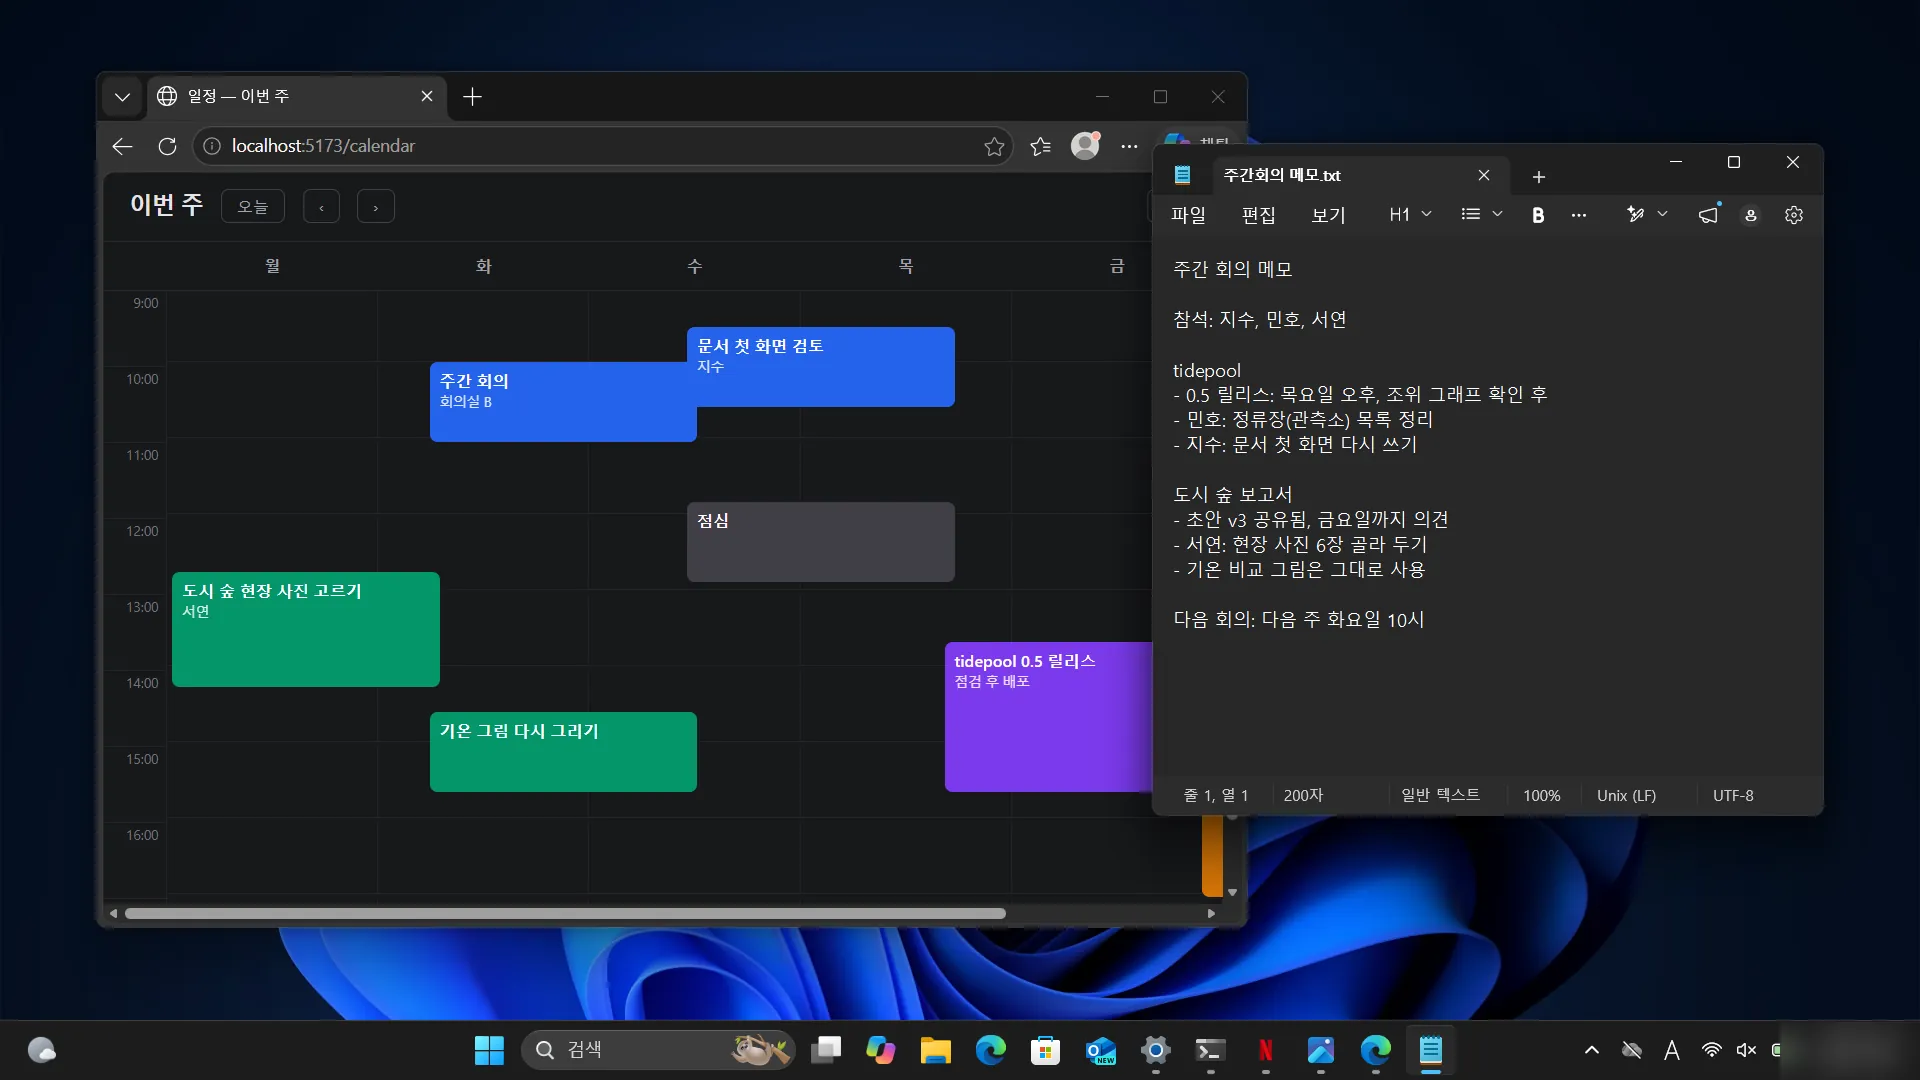
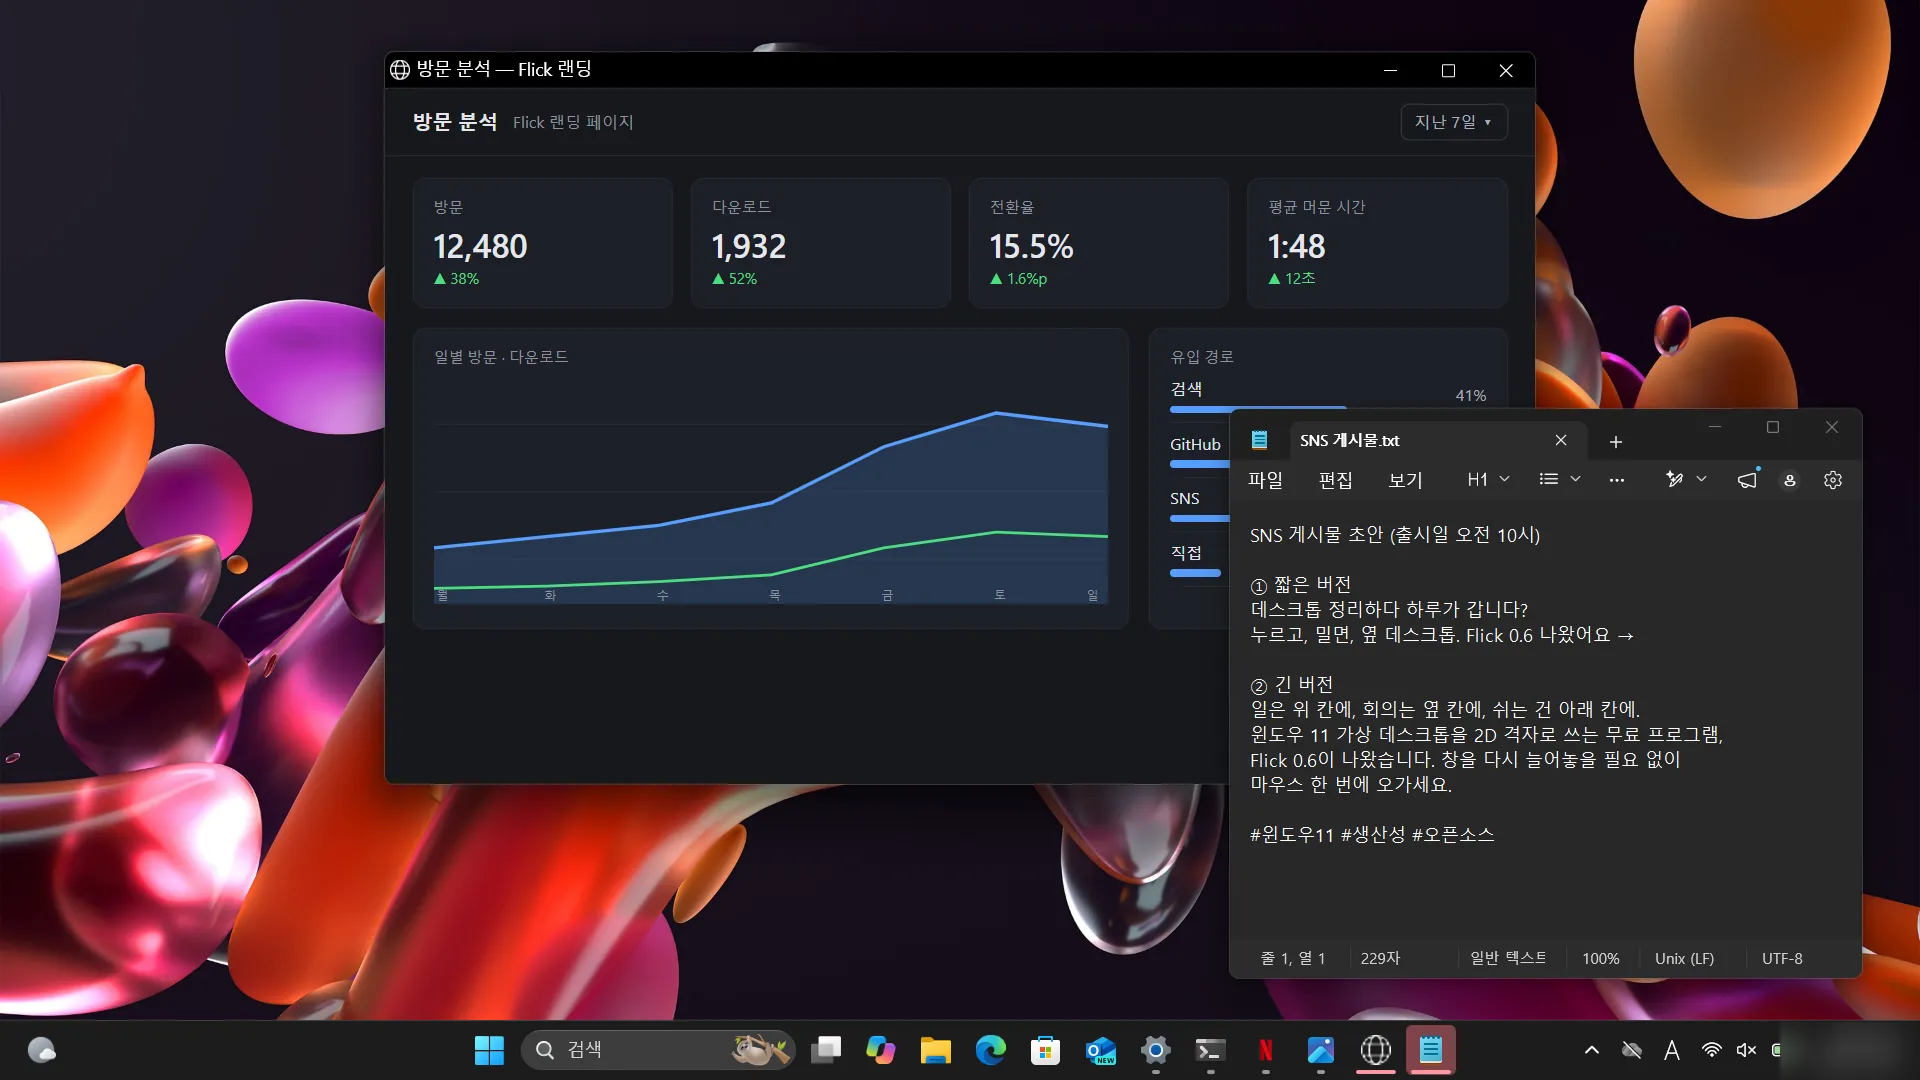
The demo follows a developer who also markets Flick 0.6: building it above, launching it below, a break between where a video plays on, one flick away; the team's chat is pinned to the shelves of work, and pinned windows keep their place in the one blue

diff --git a/docs/index.html b/docs/index.html
@@ -139,8 +139,9 @@ const rgba = (r, g, b, a) => `rgba(${Math.round(r * 255)},${Math.round(g * 255)}
 /* The app's colours (src/paint.rs, src/board.rs). */
 const white = a => rgba(1, 1, 1, a);
 const accent = a => rgba(.34, .62, 1, a);
-const everywhere = a => rgba(1, .74, .34, a);   // pinned to all shelves
-const onRow = a => rgba(.32, .86, .82, a);      // pinned to this shelf
+/* Pins' light: the one blue, full for every shelf, half for this shelf. */
+const everywhere = a => accent(a);
+const onRow = a => accent(.5 * a);
 const BACKDROP = rgba(.050, .055, .068, 1);
 /* The desktop strip (src/follow.rs): GAP between desktops, the others DIM darker. */
 const GAP = .07, DIM = .55;
@@ -190,17 +191,17 @@ function surface(g, x, y, w, h, r, face, alpha, lift, s) {
 }
 
 /* ---------- the desktops: real Windows 11 screens (scripts/landing-cells.ps1), one shelf per piece of work ---------- */
-const CELLS = {"sw":1920,"sh":1080,"shelves":[[{"img":"d00.webp","wins":[{"app":"notepad","r":[134,61,1152,877]},{"app":"terminal","r":[960,428,864,530]}]},{"img":"d01.webp","wins":[{"app":"edge","r":[192,51,1536,918]}]},{"img":"d02.webp","wins":[{"app":"explorer","r":[96,82,998,796]},{"app":"terminal","r":[922,204,902,632]}]}],[{"img":"d10.webp","wins":[{"app":"edge","r":[77,61,1056,898],"img":"w-d10-0.webp"},{"app":"notepad","r":[960,204,864,755],"img":"w-d10-1.webp"},{"app":"explorer","r":[1190,41,672,428],"img":"w-d10-2.webp"}]},{"img":"d11.webp","wins":[{"app":"paint","r":[384,61,1190,877]}]}],[{"img":"d20.webp","wins":[{"app":"edge","r":[230,71,1382,857]}]},{"img":"d21.webp","wins":[{"app":"edge","r":[96,71,1152,857]},{"app":"notepad","r":[1152,143,672,673]}]}]],"pinAll":{"app":"calc","r":[1498,306,402,632],"img":"w-pins-0.webp"},"pinRow":{"row":1,"app":"notepad","r":[58,571,499,408],"img":"w-pins-1.webp"}};
+const CELLS = {"sw":1920,"sh":1080,"shelves":[[{"img":"d00.webp","wins":[{"app":"notepad","r":[384,51,1075,877]},{"app":"terminal","r":[998,449,845,510]}]},{"img":"d01.webp","wins":[{"app":"edge","r":[384,41,1459,918]}]},{"img":"d02.webp","wins":[{"app":"explorer","r":[422,82,883,755]},{"app":"terminal","r":[960,224,883,612]}]}],[{"img":"d10.webp","wins":[{"app":"edge","r":[115,41,1690,938]}],"frames":["d10.webp","d10b.webp","d10c.webp"]},{"img":"d11.webp","wins":[{"app":"edge","r":[192,51,1536,898]}]}],[{"img":"d20.webp","wins":[{"app":"edge","r":[384,41,960,918]},{"app":"notepad","r":[1152,143,710,755]}]},{"img":"d21.webp","wins":[{"app":"app","r":[384,51,1152,734],"img":"w-d21-0.webp"},{"app":"notepad","r":[1229,408,634,571],"img":"w-d21-1.webp"}]},{"img":"d22.webp","wins":[{"app":"paint","r":[384,41,1075,816]},{"app":"explorer","r":[1152,428,710,530]}]}]],"pinAll":{"app":"calc","r":[1478,31,403,627],"img":"w-pins-0.webp"},"pinRow":{"rows":[0,2],"app":"app","r":[19,408,346,592],"img":"w-pins-1.webp"}};
 const SHELF_NAMES = {
-  ko: ['개발 · tidepool', '글쓰기 · 도시 숲 보고서', '소통 · 이번 주'],
-  en: ['Build · tidepool', 'Writing · urban forest report', 'Talk · this week'],
+  ko: ['개발 · Flick 0.6', '딴짓', '마케팅 · Flick 0.6 출시'],
+  en: ['Build · Flick 0.6', 'Break', 'Marketing · Flick 0.6 launch'],
 };
-const SHELF_SHORT = { ko: ['개발', '글쓰기', '소통'], en: ['Build', 'Writing', 'Talk'] };
+const SHELF_SHORT = { ko: ['개발', '딴짓', '마케팅'], en: ['Build', 'Break', 'Marketing'] };
 const shelfName = r => SHELF_NAMES[lang][r];
 const SHELVES = CELLS.shelves;
 const PINNED_ALL = CELLS.pinAll, PINNED_ROW = CELLS.pinRow;
 /* An app's colour, for its icon until the picture of it has come. */
-const TONE = { notepad: '#3d8bfd', terminal: '#8d96a8', edge: '#2fa8d8', explorer: '#e6c34a', paint: '#e46a9a', calc: '#8f7cf0' };
+const TONE = { notepad: '#3d8bfd', terminal: '#8d96a8', edge: '#2fa8d8', explorer: '#e6c34a', paint: '#e46a9a', calc: '#8f7cf0', app: '#2fa8d8' };
 
 const IMG = {};
 let onImage = () => {};
@@ -216,39 +217,45 @@ function icon(g, app, x, y, k) {
   fill(g, x, y, k, k, k * .24, TONE[app]);
 }
 
-/* ---------- the loop: every desktop and every shelf, no move made twice the same way ----------
+/* ---------- the loop: a developer who also markets, building Flick 0.6 above, launching it below, a break between ----------
    How far the screens recede follows the hand: a sure, quick flick slides them full size, a middling one
-   halfway back, a slow or unsure drag all the way. Receding, the pinned windows shrink into the board's places for them.
-   The writing shelf's references stay put while that shelf's desktops slide under them, and leave with it. */
+   to three quarters, a slow or unsure drag all the way back. The video on the break shelf plays on while the
+   person works: each time they flick down to it, it is further along, and each time they flick back up their
+   work is as they left it. The team's chat is pinned to both shelves of work and is gone on the break. */
 const SCRIPT = [
-  [.4, h => h.drag(1, 0)],                       // a quick flick: building, to the preview
-  [2.2, h => h.drag(1, 0)],                      // and on to the project folder
-  [3.9, h => h.press()],                         // held: the shelves recede
-  [4.3, h => h.drag(0, 1)],                      // down to the writing shelf, its references with it
-  [5.1, h => h.drag(1, 0)],                      // the desktops slide; the references stay
-  [5.9, h => h.drag(-1, 0)],                     // and back
-  [6.6, h => h.release()],
-  [8.1, h => h.tap()],                           // the board: what is pinned where
-  [11.0, h => h.tap()],
-  [12.0, h => h.drag(1, 0)],                     // full size: the chart slides in, the references stay
-  [13.8, h => h.press()],
-  [14.2, h => h.drag(0, 1)],                     // down to the team's shelf: the references go with theirs
-  [15.0, h => h.drag(1, 0)],
-  [15.7, h => h.release()],
-  [17.5, h => h.press(.5)],                      // a middling flick back to the chat: three quarters size
-  [17.6, h => h.drag(-1, 0)],
-  [18.1, h => h.release()],
-  [19.4, h => h.drag(0, -1)],                    // up, full size: the references come back
-  [20.9, h => h.press(.5)],
-  [21.0, h => h.drag(-1, 0)],
-  [21.5, h => h.release()],
-  [22.7, h => h.press()],
-  [23.1, h => h.drag(0, -1)],                    // up to building, then two desktops along it
-  [23.8, h => h.drag(-1, 0)],
-  [24.3, h => h.drag(-1, 0)],
-  [25.0, h => h.release()],
+  [.4, h => h.drag(1, 0)],                       // building: the source, then the release on GitHub
+  [2.0, h => h.drag(0, 1)],                      // one flick down: the video, playing
+  [3.7, h => h.drag(0, -1)],                     // one flick up: the release, as it was
+  [5.2, h => h.press()],                         // held, the shelves recede: on to the project folder
+  [5.6, h => h.drag(1, 0)],
+  [6.3, h => h.release()],
+  [7.6, h => h.drag(0, 1)],                      // down again: the video has gone on
+  [9.3, h => h.drag(0, -1)],                     // and back to work
+  [10.8, h => h.press(.5)],                      // a middling flick: three quarters size
+  [11.0, h => h.drag(0, 1)],
+  [11.6, h => h.drag(1, 0)],                     // music next to the video
+  [12.2, h => h.drag(-1, 0)],
+  [12.7, h => h.release()],
+  [14.0, h => h.press()],
+  [14.4, h => h.drag(0, 1)],                     // down to marketing: the chat comes back with it
+  [15.1, h => h.drag(1, 0)],                     // the desktops slide; the chat stays
+  [15.8, h => h.drag(1, 0)],
+  [16.5, h => h.release()],
+  [17.8, h => h.drag(-1, 0)],                    // a quick flick back to the numbers
+  [19.0, h => h.tap()],                          // the board: what is pinned where
+  [21.6, h => h.tap()],
+  [22.4, h => h.drag(0, -1)],                    // up to the break: further along still
+  [24.0, h => h.drag(0, 1)],                     // down: the launch work, as it was
+  [25.5, h => h.press()],
+  [25.9, h => h.drag(0, -1)],                    // up through the break to building, and along it home
+  [26.4, h => h.drag(0, -1)],
+  [27.0, h => h.drag(-1, 0)],
+  [27.5, h => h.drag(-1, 0)],
+  [28.0, h => h.release()],
 ];
-const LOOP = 27.5;
+const LOOP = 29.8;
+/* Which picture of the playing video each visit to the break shelf finds. */
+const VIDEO_AT = [0, 1, 1, 2, 2];
 /* Springs, a little under-damped: quick to go, a few per cent past, quick to settle. */
 const MOVE = { w: 24, z: .74 }, DEPTH = { w: 22, z: .7 }, BOARD = { w: 20, z: .72 };
 function spring(s, to, dt, { w, z }) {
@@ -265,7 +272,7 @@ class Hero {
     this.t = 0; this.si = 0;
     this.row = 0; this.col = 0; this.last = SHELVES.map(() => 0);
     this.sx = { p: 0, v: 0 }; this.sy = { p: 0, v: 0 }; this.tx = 0; this.ty = 0;   // where the strip is: column on the current shelf, and shelf
-    this.held = false; this.depth = { p: 0, v: 0 }; this.arrived = -9;   // when the pinned shelf was last come to
+    this.held = false; this.depth = { p: 0, v: 0 }; this.arrived = -9; this.breaks = 0;   // when a shelf with the chat was last come to; visits to the break
     this.board = { open: false, s: { p: 0, v: 0 } };
   }
   get x() { return this.sx.p; }
@@ -299,7 +306,7 @@ class Hero {
     /* The strip springs to where the hand sent it; the desktop it is nearest is the one chosen. */
     spring(this.sy, this.ty, dt, MOVE);
     const row = clamp(Math.round(this.y), 0, SHELVES.length - 1);
-    if (row !== this.row) { if (row === PINNED_ROW.row) this.arrived = this.t; this.last[this.row] = this.col; this.row = row; this.col = this.last[row]; this.tx = this.col; this.sx = { p: this.col, v: 0 }; }
+    if (row !== this.row) { if (PINNED_ROW.rows.includes(row) && !PINNED_ROW.rows.includes(this.row)) this.arrived = this.t; if (SHELVES[row].some(d => d.frames)) this.breaks++; this.last[this.row] = this.col; this.row = row; this.col = this.last[row]; this.tx = this.col; this.sx = { p: this.col, v: 0 }; }
     spring(this.sx, this.tx, dt, MOVE);
     this.col = clamp(Math.round(this.x), 0, SHELVES[this.row].length - 1);
     /* Held, the screen recedes; let go, the chosen desktop comes forward. */
@@ -315,7 +322,7 @@ class Hero {
     const s = w / win.r[2], r = 8 * s;   // one of the screen's pixels, here
     glow(g, x, y + (6 + 8 * lift) * s, w, h, r, (20 + 16 * lift) * s, `rgba(0,0,0,${.32 + .2 * lift})`);
     glow(g, x, y + s, w, h, r, 4 * s, 'rgba(0,0,0,.4)');
-    const own = win.img && image(win.img), from = own || image(desk.img);
+    const own = win.img && image(win.img), from = own || image(this.picture(desk));
     g.save(); rr(g, x, y, w, h, r); g.clip();
     if (from) {
       const k = from.naturalWidth / (own ? win.r[2] : CELLS.sw);
@@ -324,6 +331,8 @@ class Hero {
     } else { g.fillStyle = '#202328'; g.fillRect(x, y, w, h); }
     g.restore();
   }
+  /* A desktop's picture; the playing video's, as far along as this visit finds it. */
+  picture(desk) { return desk.frames ? desk.frames[Math.min(desk.frames.length - 1, VIDEO_AT[Math.max(0, this.breaks - 1)] || 0)] : desk.img; }
   /* follow::placed: where a thing `apart` desktops from the strip is drawn, and how dark. */
   place(ax, ay) {
     const { W, H } = this, sc = scaleAt(this.receded), emphasis = clamp(1 - Math.hypot(ax, ay), 0, 1);
@@ -342,7 +351,7 @@ class Hero {
     SHELVES.forEach((row, r) => row.forEach((desk, c) => {
       const p = this.place(c - this.rowX(r), r - this.y), w = W * p.k, h = H * p.k;
       if (p.x > W || p.y > H || p.x + w < 0 || p.y + h < 0) return;
-      const im = image(desk.img);
+      const im = image(this.picture(desk));
       if (im) {
         const k = im.naturalWidth / CELLS.sw;
         g.drawImage(im, -ox / sc * k, -oy / sc * k, W / sc * k, H / sc * k, p.x, p.y, w, h);
@@ -351,23 +360,19 @@ class Hero {
     }));
     /* Pinned windows stay where they are sideways; those of a shelf go up and down with it. */
     /* Each with its pin's light round it, no box: teal for this shelf, brighter as the shelf is come to; amber for every shelf. */
-    /* Full size they are where they are; receding, they shrink toward a fifth of their size in the board's place for
-       their pin, as far as the screens recede. A shelf's own go up and down with it. */
-    const pinned = (win, ay, colour, a, slot) => {
-      const d = clamp(this.receded, 0, 1), [rx, ry, rw, rh] = this.onStage(win.r), k = 1 - .8 * d;
-      const t = this.fitTile(win, ...slot), w = rw * k, h = rh * k;
-      const x = rx + (t.x + t.w / 2 - rx - rw / 2) * d + (rw - w) / 2;
-      const y = ry + (t.y + t.h / 2 - ry - rh / 2) * d + (rh - h) / 2 + ay * H * (1 + GAP) * scaleAt(this.receded);
+    /* They stay where they are; receding, one covering much of the screen shrinks about its own middle, to no less than 40%.
+       A shelf's own go up and down with it. */
+    const pinned = (win, ay, colour, a) => {
+      const d = clamp(this.receded, 0, 1), [rx, ry, rw, rh] = this.onStage(win.r);
+      const covers = win.r[2] * win.r[3] / (CELLS.sw * CELLS.sh), k = 1 - d * (1 - clamp(Math.sqrt(.03 / covers), .4, 1));
+      const w = rw * k, h = rh * k, x = rx + (rw - w) / 2, y = ry + (rh - h) / 2 + ay * H * (1 + GAP) * scaleAt(this.receded);
       const s = sc * Math.max(k, .5);   // the light shrinks less than the window, to stay seen
-      g.save();
       const lit = colour(clamp(a, 0, 1) * clamp(1 - Math.abs(ay), 0, 1));
       glow(g, x - 10 * s, y - 10 * s, w + 20 * s, h + 20 * s, 18 * s, 90 * s, lit); glow(g, x - 3 * s, y - 3 * s, w + 6 * s, h + 6 * s, 10 * s, 28 * s, lit);
       this.paintShot(g, win, win, x, y, w, h, 1);
-      g.restore();
     };
-    const slots = this.pinSlots();
-    if (Math.abs(PINNED_ROW.row - this.y) < 1.5) pinned(PINNED_ROW, PINNED_ROW.row - this.y, onRow, .55 + .45 * Math.exp(-(this.t - this.arrived) / 1.2), slots.row);
-    pinned(PINNED_ALL, 0, everywhere, .42, slots.all);
+    PINNED_ROW.rows.forEach(r => { if (Math.abs(r - this.y) < 1.5) pinned(PINNED_ROW, r - this.y, onRow, .5 + .4 * Math.exp(-(this.t - this.arrived) / 1.2)); });
+    pinned(PINNED_ALL, 0, everywhere, .5);
     if (this.receded > .01) this.drawBanner();
   }
   /* glide.rs Banner: the shelf's name in a pill above the picture, the names sliding as the shelf changes. */
@@ -399,7 +404,7 @@ class Hero {
     const top = 58 * s, bottom = mapTop - 34 * s, colW = W * .19, left = 30 * s, slots = this.pinSlots();
     const pins = [
       { win: PINNED_ALL, kind: 'all', ...this.fitTile(PINNED_ALL, ...slots.all) },
-      ...(this.row === PINNED_ROW.row ? [{ win: PINNED_ROW, kind: 'row', ...this.fitTile(PINNED_ROW, ...slots.row) }] : []),
+      ...(PINNED_ROW.rows.includes(this.row) ? [{ win: PINNED_ROW, kind: 'row', ...this.fitTile(PINNED_ROW, ...slots.row) }] : []),
     ];
     const desk = SHELVES[this.row][this.col], wins = desk.wins, ax = left + colW + 40 * s, aw = W - ax - 40 * s, tg = 26 * s;
     const asp = wins.map(w => w.r[2] / w.r[3]), sum = asp.reduce((a, b) => a + b, 0);
@@ -471,7 +476,7 @@ applyLang();
 const hero = new Hero(document.getElementById('hero'));
 /* The pictures come in their own time; a held frame is drawn again as each arrives. */
 onImage = () => { if (STILL) redrawStill(); };
-SHELVES.forEach(row => row.forEach(d => { image(d.img); d.wins.forEach(w => { image(`icons/${w.app}.png`); if (w.img) image(w.img); }); }));
+SHELVES.forEach(row => row.forEach(d => { image(d.img); (d.frames || []).forEach(image); d.wins.forEach(w => { image(`icons/${w.app}.png`); if (w.img) image(w.img); }); }));
 [PINNED_ALL, PINNED_ROW].forEach(w => { image(w.img); image(`icons/${w.app}.png`); });
 const words = [...document.querySelectorAll('#line span')];
 let beatTimer = 0;

diff --git a/scripts/landing-cells.py b/scripts/landing-cells.py
@@ -28,7 +28,7 @@ def clock_hidden(im):
 
 
 # Other people's thumbnails on YouTube, softened: (left, top, right, bottom) as fractions of the browser window.
-SOFTEN = {'d10': [(.745, .17, .985, 1)], 'd11': [(.08, .2, .25, .97), (.39, .2, .62, .97)]}
+SOFTEN = {'d10': [(.70, .17, .99, 1)], 'd11': [(.08, .26, .49, 1)]}
 FRAMES = {'d10': ['d10', 'd10b', 'd10c']}   # the video, taken again as it plays
 
 
@@ -37,16 +37,6 @@ def softened(d, im):
     for l, t, r, b in SOFTEN.get(d, []):
         box = tuple(round(v) for v in (f['x'] + l * f['w'], f['y'] + t * f['h'], f['x'] + r * f['w'], min(f['y'] + b * f['h'], work['h'])))
         im.paste(im.crop(box).filter(ImageFilter.GaussianBlur(10)), box[:2])
-    return im
-
-
-def dates_hidden(d, im):
-    """Explorer's "date modified" column is today's real date and time too."""
-    for w in layout['scenes'][d]['windows']:
-        if w['app'] == 'explorer' and d == 'd02':
-            f = w['frame']
-            box = (f['x'] + 538, f['y'] + 208, f['x'] + 716, f['y'] + 432)
-            im.paste(im.crop(box).filter(ImageFilter.GaussianBlur(9)), box[:2])
     return im
 
 
@@ -71,7 +61,7 @@ shelves = []
 for row in SHELVES:
     out = []
     for d in row:
-        pics = [save(softened(d, dates_hidden(d, clock_hidden(Image.open(src / f'{n}.png').convert('RGB')))), n, DESK_W) for n in FRAMES.get(d, [d])]
+        pics = [save(softened(d, clock_hidden(Image.open(src / f'{n}.png').convert('RGB'))), n, DESK_W) for n in FRAMES.get(d, [d])]
         img = pics[0]
         wins = []
         for i, w in enumerate(layout['scenes'][d]['windows']):
@@ -89,6 +79,8 @@ cells = {'sw': sw, 'sh': sh, 'shelves': shelves, 'pinAll': pin(0), 'pinRow': {'r
 
 for p in (src / 'icons').glob('*.png'):
     shutil.copy(p, dst / 'icons' / p.name)
+# A page opened as an app of its own is Edge's.
+shutil.copy(src / 'icons' / 'edge.png', dst / 'icons' / 'app.png')
 # The new Paint, Notepad and Calculator keep their icons out of their exes; their title bars have them.
 for app, shot, box in (('paint', 'w-d22-0', (9, 12, 29, 32)), ('calc', 'w-pins-0', (23, 11, 43, 31)), ('notepad', 'w-d20-1', (20, 21, 40, 41))):
     Image.open(src / f'{shot}.png').crop(box).resize((32, 32), Image.LANCZOS).save(dst / 'icons' / f'{app}.png')
